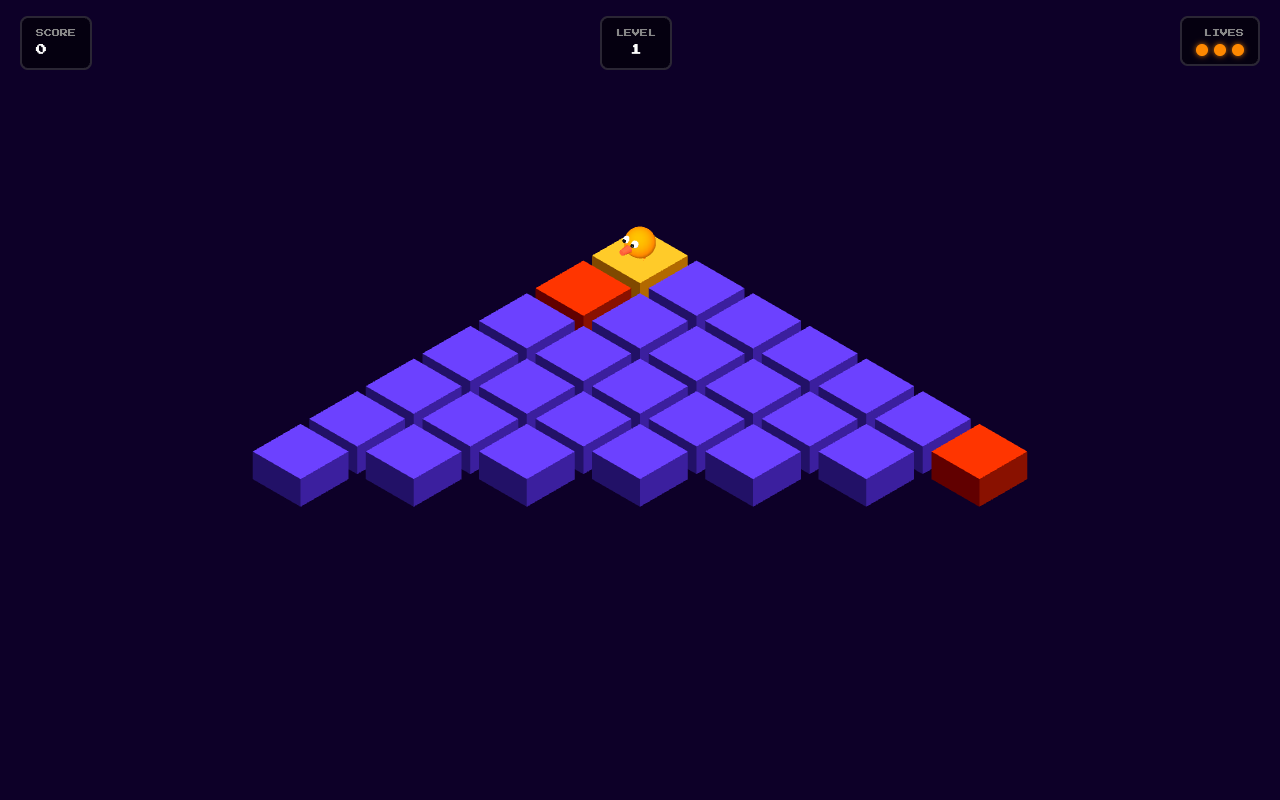
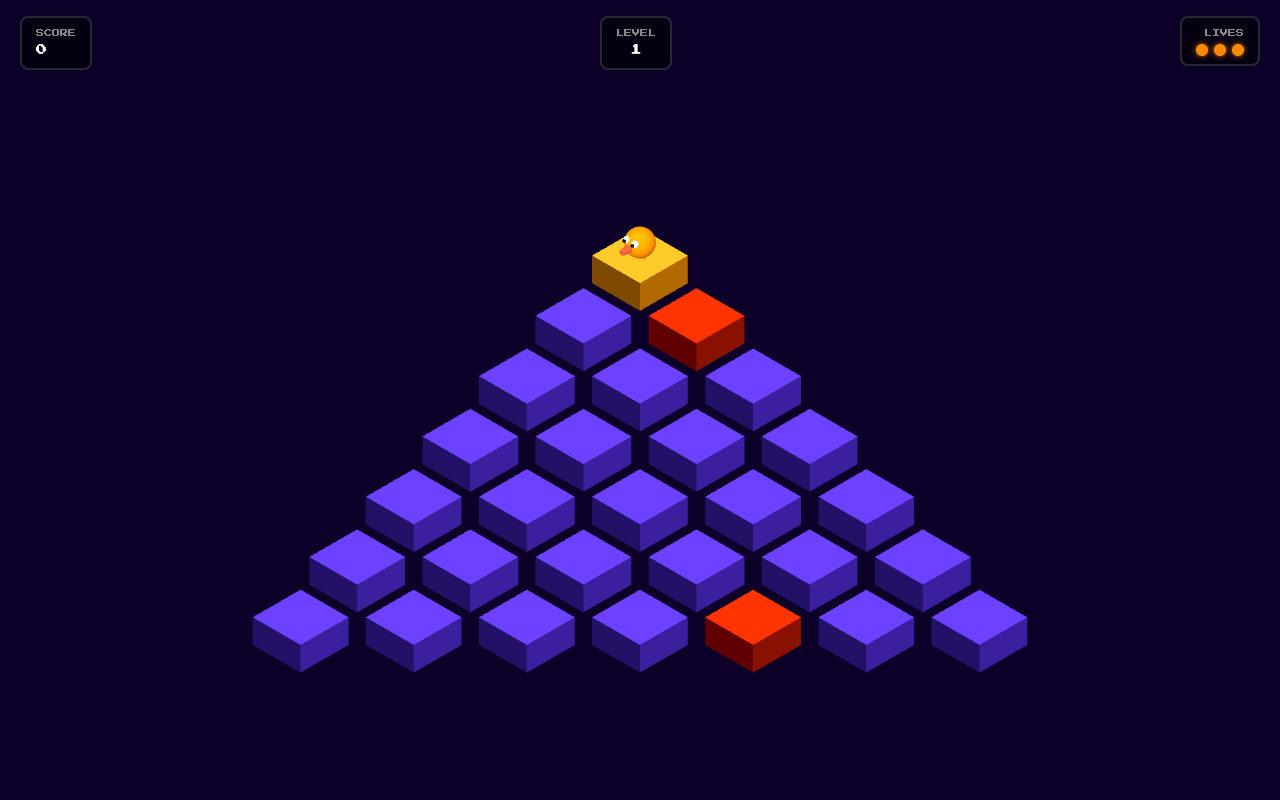
Fix Q*HOPPER 3D depth and key mappings
- gridToWorld: add y = -row * CUBE_H so each row steps down physically,
  giving the classic Q*bert staircase depth instead of a flat plane
- Key mapping: ArrowUp/W now map to ul (upper-left, toward apex) so that
  pressing back then up is a reversible pair — fixes falling off unexpectedly
- ArrowRight/D = ur, ArrowDown/S = lr, ArrowLeft/A = ll
- Update control hint text to match new layout

Changed region(s): [[0.1875, 0.3125, 0.8125, 0.8438]]

diff --git a/qhopper/index.html b/qhopper/index.html
@@ -129,7 +129,7 @@
   </p>
   <button class="btn" id="start-btn">START GAME</button>
   <div class="keys-hint">
-    ↖ Q &nbsp; ↗ W &nbsp; ↙ A &nbsp; ↘ S &nbsp;·&nbsp; ARROW KEYS ALSO WORK
+    ↖ W/↑ &nbsp; ↗ D/→ &nbsp; ↙ A/← &nbsp; ↘ S/↓
   </div>
 </div>
 
@@ -196,16 +196,15 @@ function isValid(col, row) {
   return row >= 0 && row < ROWS && col >= 0 && col <= row;
 }
 
-// Map grid (col,row) → 3D world position (center of cube top face)
-// Derived so that from camera (60,60,60):
-//   - apex (0,0) appears at top-center
-//   - ul/ur/ll/lr hops look diagonal, not flat
-//   - left column goes down-left, right column down-right
+// Map grid (col,row) → 3D world position (center of cube)
+// x/z derived so apex (0,0) is at screen-top-center from camera (60,60,60),
+// with left column going down-left and right column going down-right.
+// y = -row * CUBE_H so each row steps DOWN by one cube height (3D staircase).
 function gridToWorld(col, row) {
-  const OFS = (ROWS - 1) / 3 * STEP; // centroid offset, centers pyramid in screen space
+  const OFS = (ROWS - 1) / 3 * STEP;
   return new THREE.Vector3(
     (row - col) * STEP - OFS,
-    0,
+    -row * CUBE_H,
     col * STEP - OFS
   );
 }
@@ -625,11 +624,13 @@ function startLevel() {
 }
 
 // ─── Input ───────────────────────────────────────────────────────────────────
+// Arrow keys: rotated 45° so UP moves upper-left (toward apex), DOWN moves lower-right
+// WASD: W/A = up-left/down-left, D/S = up-right/down-right  (W↔S, A↔D are pairs)
 const KEY_TO_DIR = {
-  ArrowLeft: 'ul', KeyQ: 'ul',
-  ArrowUp:   'ur', KeyW: 'ur',
-  ArrowDown: 'll', KeyA: 'll',
-  ArrowRight:'lr', KeyS: 'lr',
+  ArrowUp:    'ul', KeyW: 'ul', KeyQ: 'ul',
+  ArrowRight: 'ur', KeyD: 'ur', KeyE: 'ur',
+  ArrowDown:  'lr', KeyS: 'lr',
+  ArrowLeft:  'll', KeyA: 'll',
 };
 
 window.addEventListener('keydown', e => {
